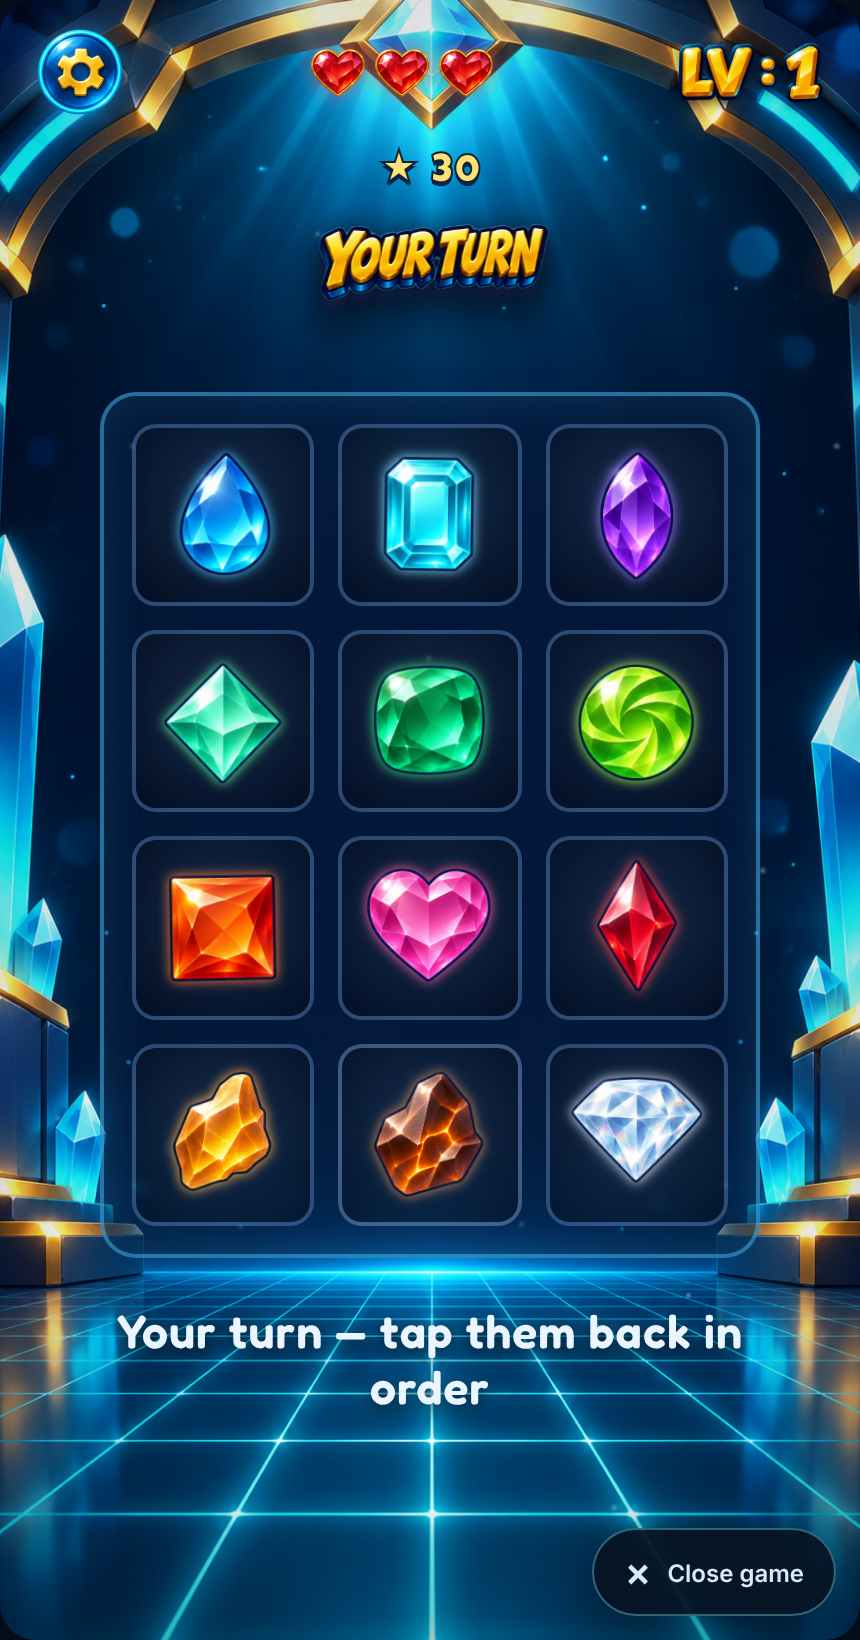
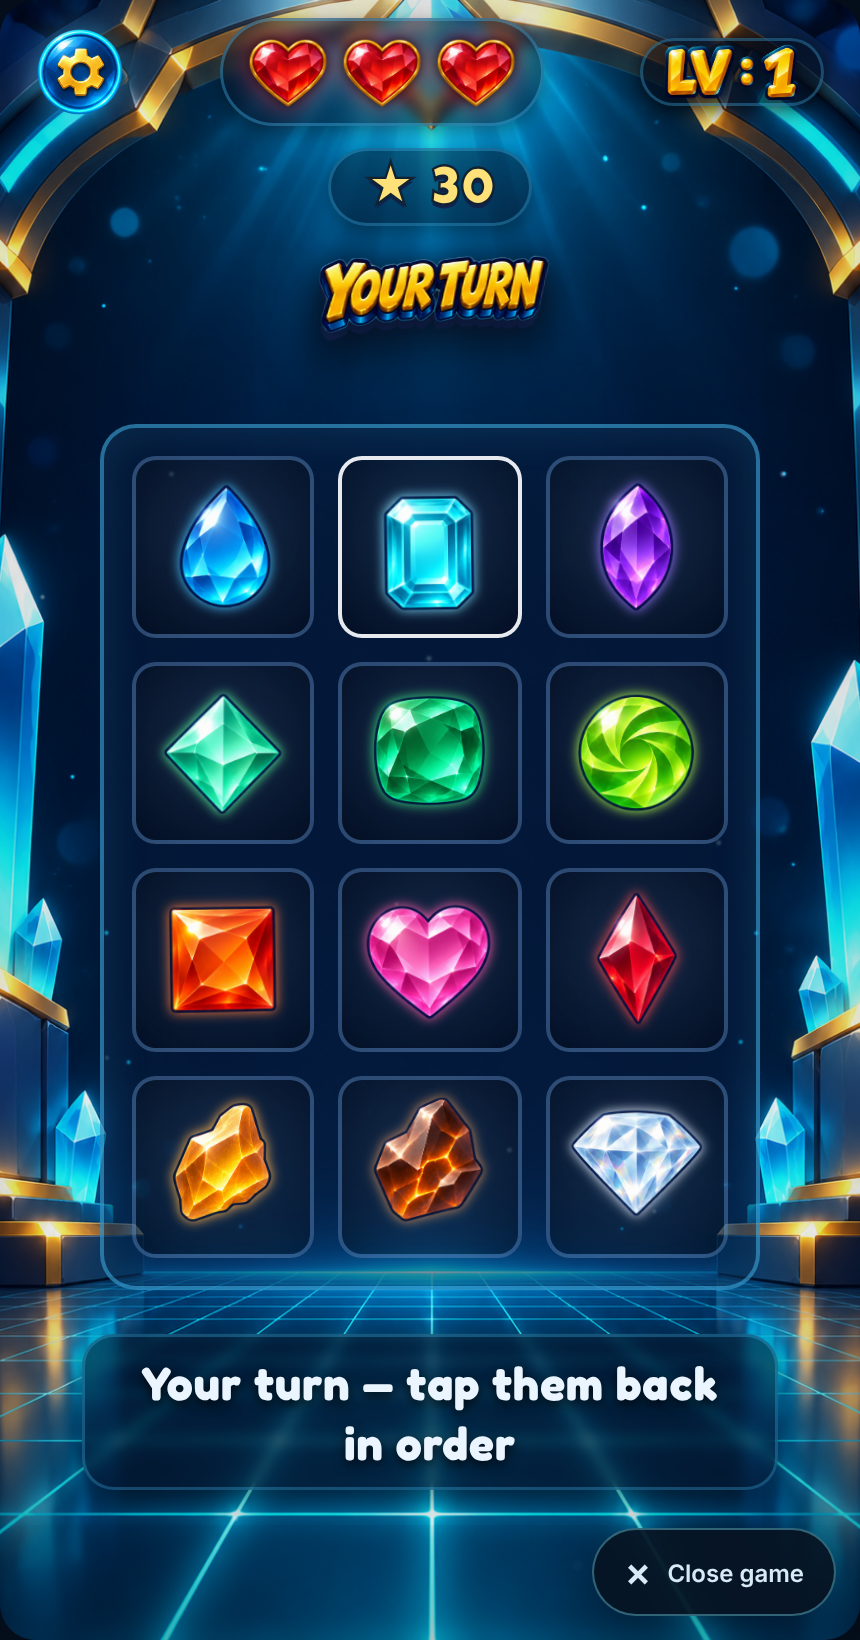
Add turn countdown bar + readable HUD backings
- Countdown progress bar above the board during the player's turn;
  resets on each correct tap, turns red near the end; if it runs out
  with no input, lose a heart (MISS and replay, or game over)
- HUD readability: bigger hearts, and dark translucent backings on
  hearts / score / LV / instruction text so they don't get lost
  against the bright background

Claude-Session: https://claude.ai/code/session_01WnPXDfC2E1HsxAHMdYXNWW

diff --git a/01_memory_crash/css/style.css b/01_memory_crash/css/style.css
@@ -205,21 +205,30 @@ html, body {
 .icon-btn .gear { display: none; }
 .title-gear { position: absolute; top: 16px; left: 18px; z-index: 6; }
 
-.hearts { display: flex; gap: 4px; }
+/* 愛心加深色底襯，避免被亮背景吃掉 */
+.hearts {
+  display: flex; gap: 7px; align-items: center;
+  padding: 7px 14px; border-radius: 999px;
+  background: rgba(4,14,32,.55);
+  box-shadow: inset 0 0 0 1.5px rgba(73,199,255,.35), 0 3px 10px rgba(0,0,0,.45);
+  -webkit-backdrop-filter: blur(3px); backdrop-filter: blur(3px);
+}
 .heart {
-  width: 28px; height: 28px; display: inline-block; font-size: 0; color: transparent;
+  width: 40px; height: 40px; display: inline-block; font-size: 0; color: transparent;
   background: url("../assets/source/pic/ui/heart_full.png") center/contain no-repeat;
-  filter: drop-shadow(0 0 5px rgba(255,59,83,.6));
+  filter: drop-shadow(0 0 3px rgba(0,0,0,.85)) drop-shadow(0 0 7px rgba(255,59,83,.7));
   transition: transform .2s, opacity .3s, filter .3s;
 }
 .heart.lost {
   background-image: url("../assets/source/pic/ui/heart_empty.png");
-  filter: none; opacity: .95; transform: scale(.88);
+  filter: drop-shadow(0 0 3px rgba(0,0,0,.7)); opacity: .9; transform: scale(.86);
 }
 
 .level-tag {
-  display: flex; align-items: center; gap: 1px; height: 30px;
-  filter: drop-shadow(0 2px 3px rgba(0,0,0,.5));
+  display: flex; align-items: center; gap: 1px; height: 34px;
+  padding: 3px 12px; border-radius: 999px; background: rgba(4,14,32,.5);
+  box-shadow: inset 0 0 0 1.5px rgba(73,199,255,.3), 0 3px 10px rgba(0,0,0,.4);
+  filter: drop-shadow(0 1px 2px rgba(0,0,0,.5));
 }
 .level-tag .nimg { height: 100%; width: auto; display: block; }
 .level-tag .ncolon { height: 55%; align-self: center; margin: 0 1px; }
@@ -337,10 +346,13 @@ html, body {
 .board.locked .gem { cursor: default; }
 
 .status-text {
-  margin-top: 22px; color: #eaf5ff; font-weight: 600;
+  align-self: center; margin: 22px auto 0; color: #eaf5ff; font-weight: 700;
   font-size: clamp(18px, 5.4vw, 26px); letter-spacing: .5px;
-  text-shadow: 0 2px 8px rgba(0,0,0,.7), 0 0 14px rgba(73,199,255,.4);
-  text-align: center; min-height: 1.3em; padding: 0 16px;
+  text-shadow: 0 2px 6px rgba(0,0,0,.8);
+  text-align: center; line-height: 1.3; max-width: 92%;
+  padding: 9px 20px; border-radius: 16px; background: rgba(4,14,32,.58);
+  box-shadow: inset 0 0 0 1.5px rgba(73,199,255,.28), 0 4px 14px rgba(0,0,0,.45);
+  -webkit-backdrop-filter: blur(3px); backdrop-filter: blur(3px);
 }
 
 /* ============================================================
@@ -510,9 +522,11 @@ html, body {
    手感升級：分數 / 連擊 / 粒子 / 震動 / +N
    ============================================================ */
 .score-tag {
-  align-self: center; margin: 2px auto 2px; font-family: "Luckiest Guy", Impact, sans-serif;
-  font-size: 20px; color: var(--gold-1); -webkit-text-stroke: 1px #123;
+  align-self: center; margin: 4px auto 2px; font-family: "Luckiest Guy", Impact, sans-serif;
+  font-size: 26px; color: var(--gold-1); -webkit-text-stroke: 1.2px #123;
   text-shadow: 0 2px 0 #11224d; letter-spacing: 1px;
+  padding: 3px 18px; border-radius: 999px; background: rgba(4,14,32,.5);
+  box-shadow: inset 0 0 0 1.5px rgba(73,199,255,.3), 0 3px 10px rgba(0,0,0,.4);
 }
 .score-tag.bump { animation: scoreBump .25s ease; }
 @keyframes scoreBump { 0%,100%{ transform: scale(1);} 40%{ transform: scale(1.25); color:#fff;} }
@@ -562,3 +576,25 @@ html, body {
   -webkit-text-stroke: 1.5px #123; text-shadow: 0 3px 0 #11224d; margin-bottom: 8px;
 }
 .over-score .score-big b { color: #fff; }
+
+/* ============================================================
+   回合倒數進度條（限時，沒操作扣血）
+   ============================================================ */
+.timer-bar {
+  width: 100%; max-width: 330px; height: 13px; margin: 0 auto 12px;
+  border-radius: 999px; background: rgba(4,14,32,.6);
+  box-shadow: inset 0 0 0 1.5px rgba(73,199,255,.3), inset 0 2px 4px rgba(0,0,0,.45);
+  overflow: hidden; opacity: 0; transition: opacity .2s;
+}
+.timer-bar.active { opacity: 1; }
+.timer-fill {
+  display: block; height: 100%; width: 100%; border-radius: 999px;
+  background: linear-gradient(90deg, #5effa0, #ffe17a);
+  box-shadow: 0 0 10px rgba(255,225,122,.55);
+}
+.timer-fill.low {
+  background: linear-gradient(90deg, #ff6b6b, #ff3b53);
+  box-shadow: 0 0 12px rgba(255,59,83,.7);
+  animation: timerPulse .4s ease-in-out infinite;
+}
+@keyframes timerPulse { 0%,100%{ opacity: 1;} 50%{ opacity: .55;} }

diff --git a/01_memory_crash/js/game.js b/01_memory_crash/js/game.js
@@ -61,6 +61,8 @@
   const appEl       = $("#app");
   const scoreNum    = $("#scoreNum");
   const comboPop    = $("#comboPop");
+  const timerBar    = $("#timerBar");
+  const timerFill   = $("#timerFill");
   const modal       = $("#modal");
   const soundState  = $("#soundState");
   const musicState  = $("#musicState");
@@ -214,6 +216,7 @@
     state.playerStep = 0;
     state.accepting = false;
     board.classList.add("locked");
+    stopTimer();
     banner(fresh ? "READY" : "AGAIN", "");
     statusText.textContent = "Watch the gems light up…";
     setTimeout(playSequence, 650);
@@ -233,6 +236,7 @@
           board.classList.remove("locked");
           banner("YOUR TURN", "");
           statusText.textContent = "Your turn — tap them back in order";
+          startTimer();
         }, 180);
         return;
       }
@@ -277,6 +281,43 @@
     }
   }
 
+  // ---------- 回合倒數（限時，沒操作扣血） ----------
+  let turnTimer = null, lowTimer = null;
+  function turnDuration() {
+    const base = state.master ? 3.6 : 5;
+    return Math.max(2.2, base - state.level * 0.12);
+  }
+  function startTimer() {
+    const dur = turnDuration();
+    clearTimeout(turnTimer); clearTimeout(lowTimer);
+    timerBar.classList.add("active");
+    timerFill.classList.remove("low");
+    timerFill.style.transition = "none"; timerFill.style.width = "100%";
+    void timerFill.offsetWidth;
+    timerFill.style.transition = `width ${dur}s linear`;
+    timerFill.style.width = "0%";
+    lowTimer = setTimeout(() => timerFill.classList.add("low"), dur * 700);
+    turnTimer = setTimeout(onTimeout, dur * 1000);
+  }
+  function resetTimer() { if (state.accepting) startTimer(); }
+  function stopTimer() {
+    clearTimeout(turnTimer); clearTimeout(lowTimer); turnTimer = null;
+    timerBar.classList.remove("active"); timerFill.classList.remove("low");
+    timerFill.style.transition = "none"; timerFill.style.width = "100%";
+  }
+  function onTimeout() {
+    if (!state.accepting) return;
+    state.accepting = false; board.classList.add("locked"); stopTimer();
+    sndWrong(); shakeScreen(); state.combo = 0;
+    state.hearts--; renderHearts();
+    if (state.hearts <= 0) { setTimeout(gameOver, 500); }
+    else {
+      banner("MISS", "miss");
+      statusText.textContent = "Too slow! Watch again";
+      setTimeout(() => nextLevel(false), 1100);
+    }
+  }
+
   function onGemClick(idx) {
     if (!state.accepting) return;
     const expected = state.sequence[state.playerStep];
@@ -293,12 +334,16 @@
       updateScore(); floatPlus(gem, gain); showCombo(state.combo);
       state.playerStep++;
       if (state.playerStep >= state.sequence.length) {
+        stopTimer();
         levelClear();
+      } else {
+        resetTimer();   // 每點對一次就重置倒數
       }
     } else {
       // 錯誤
       state.accepting = false;
       board.classList.add("locked");
+      stopTimer();
       gem.classList.add("wrong");
       setTimeout(() => gem.classList.remove("wrong"), 360);
       sndWrong(); shakeScreen();
@@ -332,6 +377,7 @@
   }
 
   function gameOver() {
+    stopTimer();
     sndOver();
     const bestScore = Math.max(Number(localStorage.getItem("mc_bestscore") || 0), state.score);
     localStorage.setItem("mc_bestscore", String(bestScore));
@@ -410,7 +456,7 @@
     // 標題 START → 主選單
     $("#btnStart").addEventListener("click", showMenu);
     $("#btnOptionTitle").addEventListener("click", () => show("option"));
-    $("#btnOptionTop").addEventListener("click", () => { state.accepting = false; board.classList.add("locked"); show("option"); });
+    $("#btnOptionTop").addEventListener("click", () => { state.accepting = false; board.classList.add("locked"); stopTimer(); show("option"); });
 
     // 主選單
     $("#btnArcade").addEventListener("click", () => requestStart(false));

diff --git a/01_memory_crash/index.html b/01_memory_crash/index.html
@@ -68,6 +68,7 @@
       <div id="scoreTag" class="score-tag">★ <span id="scoreNum">0</span></div>
       <div id="perfectBanner" class="banner game-banner">READY</div>
       <div id="comboPop" class="combo-pop" aria-hidden="true"></div>
+      <div id="timerBar" class="timer-bar" aria-hidden="true"><span id="timerFill" class="timer-fill"></span></div>
       <div id="board" class="board"><!-- 寶石由 JS 產生 --></div>
       <div id="statusText" class="status-text">Watch the gems light up</div>
     </section>
